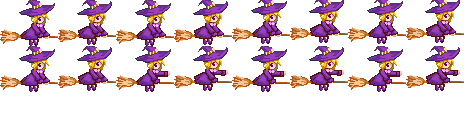
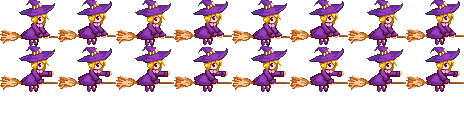
coisinha assim ó 🤏

Changed region(s): [[0.4828, 0.0, 1.0, 0.6667], [0.0603, 0.3188, 0.2716, 0.6667], [0.3621, 0.3188, 0.5129, 0.6667]]

diff --git a/components/personagem.js b/components/personagem.js
@@ -8,6 +8,7 @@ class Personagem {
     this.maxLife = 4;
     this.vidas = this.maxLife;
     this.velocidade = 10;
+    this.sprite = new Sprite(personagemSpriteSheet, 58, 46, 8);
   }
   checkCollision(x, y) {
     return (
@@ -21,19 +22,18 @@ class Personagem {
   draw() {
     push();
     imageMode(CENTER);
-    personagemSprite.show(this.x, this.y);
-    personagemSprite.imageWidth = this.width;
-    personagemSprite.imageHeight = this.height;
+    this.sprite.show(this.x, this.y);
+    this.sprite.imageWidth = this.width;
+    this.sprite.imageHeight = this.height;
     // Para a animação do sprite no último frame
-    if(personagemSprite.currentFrame >= (personagemSprite.numFrames - 1) && isAnimating){
+    if(this.sprite.currentFrame >= (this.sprite.numFrames - 1) && isAnimating){
       isAnimating = false;
-      personagemSprite.currentFrame = 0;
-      personagemSprite.spriteLine = 0;
+      this.sprite.spriteLine = 0;
     }
     if(PLAYING && !PAUSED && isAnimating && frameCount % 10 == 0){
-      personagemSprite.animate();
+      this.sprite.animate();
     }else if(frameCount % 10 == 0 && !PAUSED) {
-      personagemSprite.animate()
+      this.sprite.animate()
     }
     disparos.forEach((disparo) => {
       disparo.draw();
@@ -98,8 +98,8 @@ class Personagem {
     }
   }
   shoot() {
-    personagemSprite.spriteLine = 1;
-    personagemSprite.currentFrame = 3;
+    this.sprite.spriteLine = 1;
+    this.sprite.currentFrame = 3;
     isAnimating = true;
   }
   recebeuDano(quantidade) {

diff --git a/sketch.js b/sketch.js
@@ -44,7 +44,6 @@ var fasesPreview = [];
 
 //Imagens do personagem
 var personagemSpriteSheet;
-var personagemSprite;
 var vidasImg;
 
 var explosionSpriteSheet;
@@ -121,7 +120,6 @@ function setup() {
   softcoreMusic.setVolume(0.2);
   softcoreMusic.pause();
 
-  personagemSprite = new Sprite(personagemSpriteSheet, 58, 46, 8);
   personagem = new Personagem();
 
   disparos= [new Disparo(), new Disparo()];
@@ -285,6 +283,6 @@ function resetaJogo(){
   GAMEOVER = false;
   WIN = false;
   PAUSED = false;
-  personagemSprite.currentFrame = 0;
-  personagemSprite.spriteLine = 0;
+  personagem.sprite.currentFrame = 0;
+  personagem.sprite.spriteLine = 0;
 }
